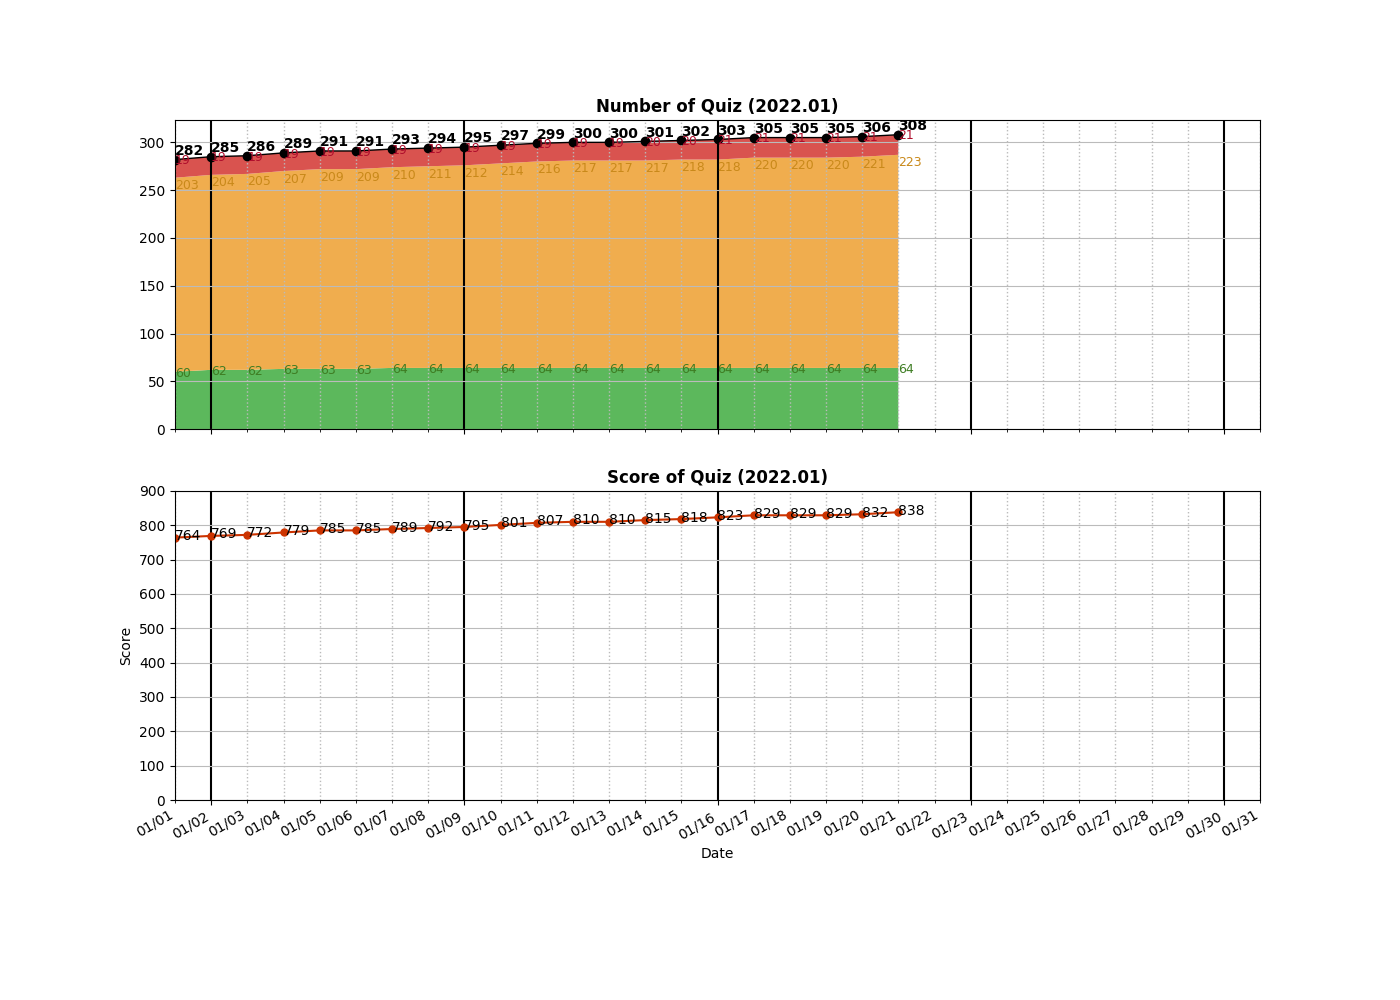
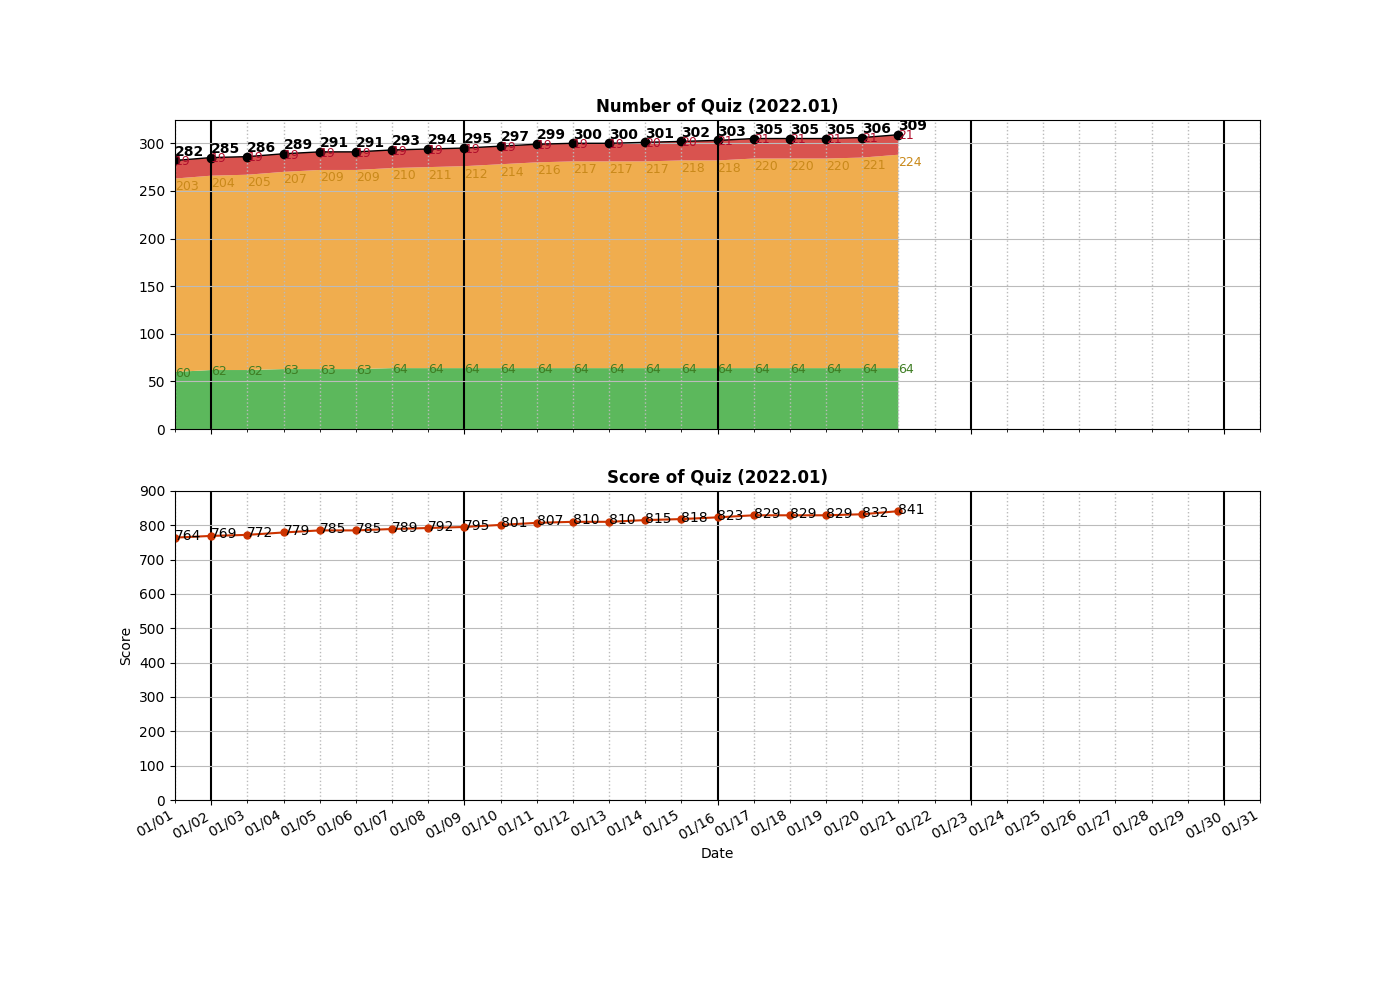
Added __0930__Binary Subarrays With Sum.py

Changed region(s): [[0.0921, 0.124, 0.645, 0.186], [0.645, 0.496, 0.6757, 0.527], [0.0921, 0.217, 0.1229, 0.248]]

diff --git a/algo/Array/__0930__Binary Subarrays With Sum.py b/algo/Array/__0930__Binary Subarrays With Sum.py
@@ -1,0 +1,78 @@
+class Solution:
+    
+    # Prefix Sum [O(n): 20%]
+    def numSubarraysWithSum(self, nums: List[int], goal: int) -> int:
+        print("Code2")
+        # prefixSum = [0] * len(nums)
+        # prefixSum[0] = nums[0]
+        # for i, v in enumerate(nums):
+        #     if i > 0:
+        #         prefixSum[i] = prefixSum[i-1] + v
+        
+        #Add a dummy "0" in the beginning to calculate the prefixSum 
+        prefixSum = [0]
+        for v in nums:
+            prefixSum.append(prefixSum[-1] + v)
+        
+        #Update the count and res together 
+        countMap = collections.defaultdict(int)
+        res = 0
+        for v in prefixSum:
+            res += countMap[v]      # Update res 
+            countMap[v + goal] += 1 # "v + goal" over prefixSum will not be counted
+            
+        print("Original:", nums)
+        print("Prefix  :", prefixSum)
+        print("CountMap:", countMap)
+        
+        return res
+        
+        # res = 0
+        # if goal != 0:
+        #     for v, count in countMap.items():
+        #         if v == goal:
+        #             res += count
+        #         else:
+        #             if v - goal in countMap:
+        #                 res += count * countMap[v - goal]
+        #     return res
+        # else:
+        #     for v, count in countMap.items():
+        #         if v == 0:
+        #             res += (count + 1) * count // 2
+        #         else:
+        #             res += (count - 1) * count // 2
+        #     return res
+            
+    
+    # Sliding window [Incorrect]
+    def numSubarraysWithSum1(self, nums: List[int], goal: int) -> int:
+        print("Code1")
+        if not nums:
+            return 0
+
+        def atMost(nums, goal):
+            i = 0
+            totalSum = 0
+            res = 0
+            for j in range(len(nums)):
+                totalSum += nums[j]
+                print(i, j, "->", totalSum)
+                
+                if totalSum <= goal:
+                    continue
+                firstI = i    
+                while i <= j and totalSum >= goal:
+                    print(i, j, totalSum)
+                    totalSum -= nums[i]
+                    i += 1
+                print("i, fi:", i, firstI)
+                res += i - firstI - 1
+            return res
+        k1 = atMost(nums, goal) 
+        #k2 = atMost(nums, goal-1)
+        print("goal:", goal, k1)
+        #print("goal-1:", goal-1, k2)
+        return k1 
+
+                

diff --git a/README.md b/README.md
@@ -17,6 +17,7 @@ algo
 │   ├── __0560__Subarray Sum Equals K.py
 │   ├── __0670__Maximum Swap.py
 │   ├── __0760__Find Anagram Mappings.py
+│   ├── __0930__Binary Subarrays With Sum.py
 │   └── __0986__Interval List Intersections.py
 ├── BFS
 │   ├── __0102__Binary Tree Level Order Traversal.py
@@ -347,7 +348,7 @@ algo
     ├── Countries.py
     └── SwitchingArray.py
 
-26 directories, 320 files
+26 directories, 321 files
 
 =====================================
 ============= Local Repo ============
@@ -603,6 +604,7 @@ __0905__Sort Array By Parity.py
 __0909__Snakes and Ladders.py
 __0912__Sort an Array.py
 __0922__Sort Array By Parity II.py
+__0930__Binary Subarrays With Sum.py
 __0931__Minimum Falling Path Sum.py
 __0934__Shortest Bridge.py
 __0935__Knight Dialer.py
@@ -661,7 +663,7 @@ __1905__Count Sub Islands.py
 __1937__Maximum Number of Points with Cost.py
 __2093__Minimum Cost to Reach City With Discounts.py
 =====================================
-Num of Python Practice:  308
+Num of Python Practice:  309
 
 
 =====================================
@@ -918,6 +920,7 @@ Num of Python Practice:  308
  0909 Snakes and Ladders
  0912 Sort an Array
  0922 Sort Array By Parity II
+ 0930 Binary Subarrays With Sum
  0931 Minimum Falling Path Sum
  0934 Shortest Bridge
  0935 Knight Dialer
@@ -977,10 +980,10 @@ Num of Python Practice:  308
  2093 Minimum Cost to Reach City With Discounts
 =====================================
 Solved / Total (Easy)  :   64 /  541
-Solved / Total (Medium):  223 / 1144
+Solved / Total (Medium):  224 / 1144
 Solved / Total (Hard)  :   21 /  458
-Solved / Total (All)   :  308 / 2143
-Total Score            :  838
+Solved / Total (All)   :  309 / 2143
+Total Score            :  841
 =====================================
 
 ```
